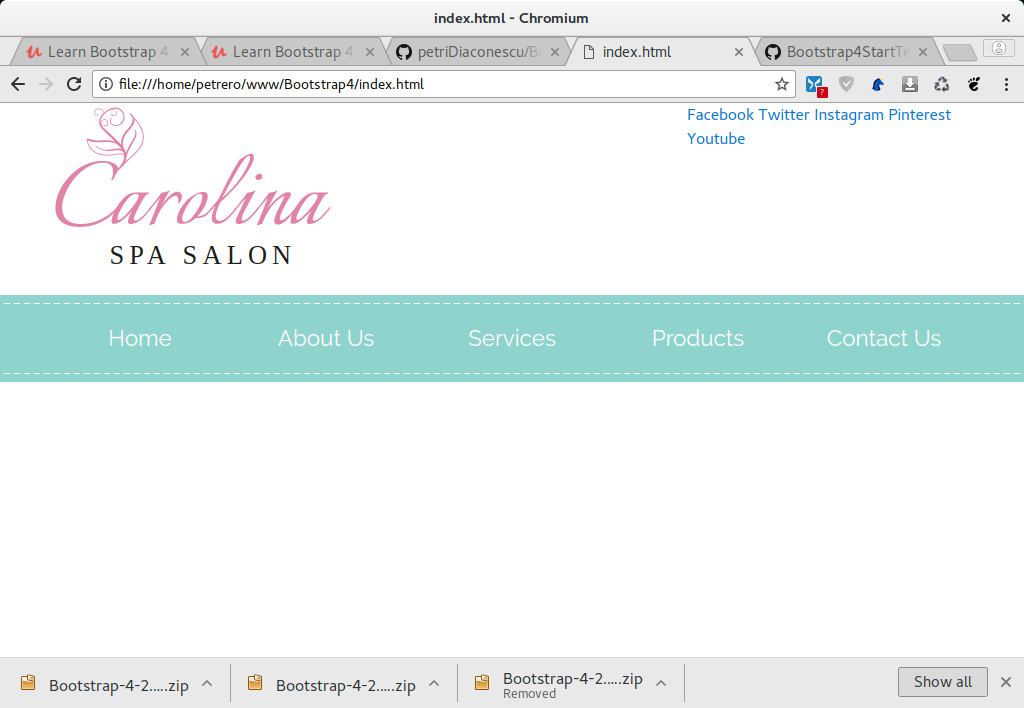
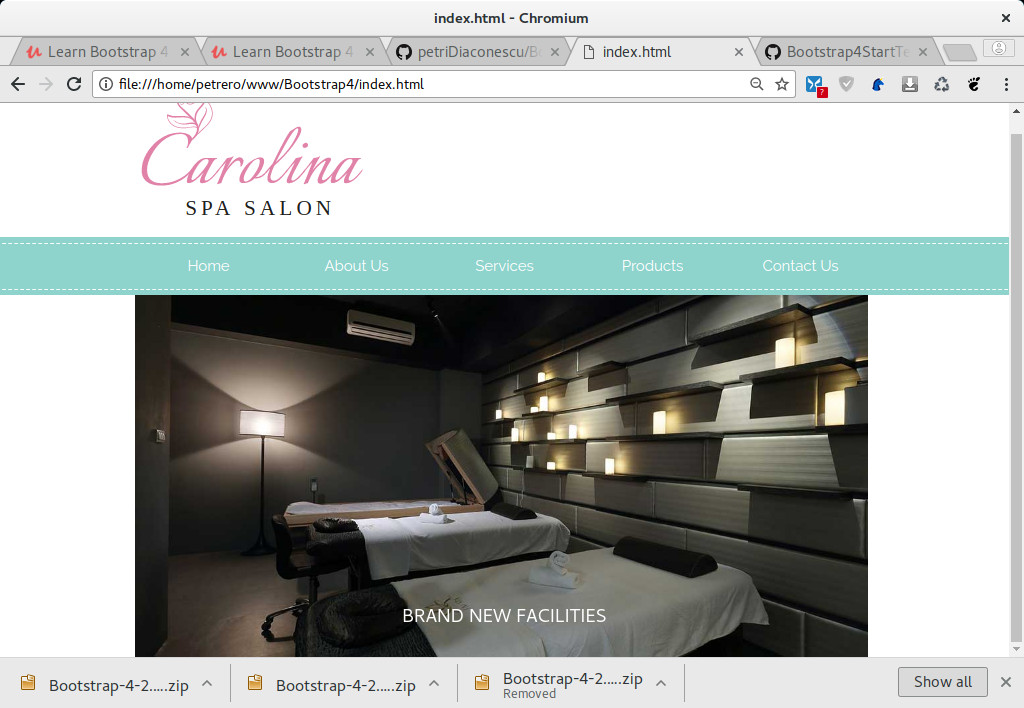
Add indicators at the bottom of the carousel

diff --git a/index.html b/index.html
@@ -52,6 +52,18 @@
     
     <div class="container">
       <div id="main-slider" class="carousel slide" data-ride="carousel">
+        <ol class="carousel-indicators">
+          <li data-target="#main-slider" 
+              data-slide-to="0" class="active">      
+          </li>
+          <li data-target="#main-slider" 
+              data-slide-to="1" >      
+          </li>
+          <li data-target="#main-slider" 
+              data-slide-to="2" >      
+          </li>
+        </ol>
+        
         <div class="carousel-inner" role="listbox">
           <div class="carousel-item active">
             <img src="img/slide_01.jpg" 
